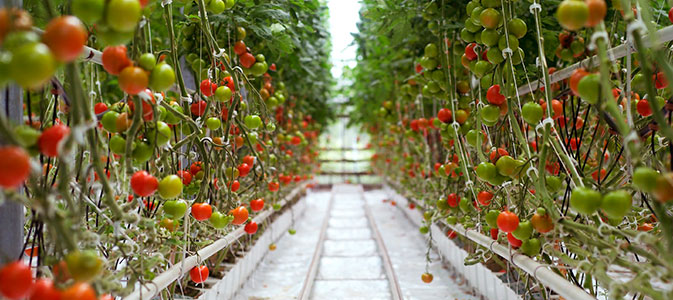
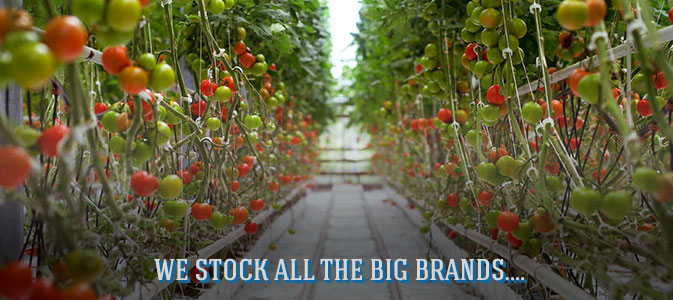
Meta and final slides

diff --git a/styles/screen.css b/styles/screen.css
@@ -460,50 +460,53 @@ img {
   padding-left: 4.05em;
   min-height: 3em; }
 /* line 361, ../sass/screen.scss */
-.contact .call {
+.contact .call, .contact .fax {
   background: transparent url(../images/icon-phone-blue.png) no-repeat 2% 5%; }
   /* line 363, ../sass/screen.scss */
-  .contact .call a {
+  .contact .call a, .contact .fax a {
     color: white;
     font-size: 120%; }
     /* line 366, ../sass/screen.scss */
-    .contact .call a:hover, .contact .call a:focus {
+    .contact .call a:hover, .contact .call a:focus, .contact .fax a:hover, .contact .fax a:focus {
       color: #cccccc; }
 /* line 371, ../sass/screen.scss */
+.contact .fax {
+  background: transparent url(../images/icon-fax.png) no-repeat 3.5% 5%; }
+/* line 374, ../sass/screen.scss */
 .contact .hours {
   background: transparent url(../images/icon-hours.png) no-repeat 2% 5%; }
-/* line 374, ../sass/screen.scss */
+/* line 377, ../sass/screen.scss */
 .contact .address {
   background: transparent url(../images/icon-pin.png) no-repeat 2% 5%; }
-/* line 377, ../sass/screen.scss */
+/* line 380, ../sass/screen.scss */
 .contact .email {
   background: transparent url(../images/icon-email-blue.png) no-repeat 0 0; }
-  /* line 379, ../sass/screen.scss */
+  /* line 382, ../sass/screen.scss */
   .contact .email a {
     color: white;
     font-size: 100%;
     font-weight: normal; }
-    /* line 383, ../sass/screen.scss */
+    /* line 386, ../sass/screen.scss */
     .contact .email a:hover, .contact .email a:focus {
       text-decoration: underline;
       color: #cccccc; }
 
-/* line 391, ../sass/screen.scss */
+/* line 394, ../sass/screen.scss */
 .heading h1 {
   font-size: 120%; }
 
-/* line 395, ../sass/screen.scss */
+/* line 398, ../sass/screen.scss */
 .product {
   min-height: 225px; }
-  /* line 397, ../sass/screen.scss */
+  /* line 400, ../sass/screen.scss */
   .product img {
     float: right;
     max-width: 100px;
     display: none; }
-  /* line 402, ../sass/screen.scss */
+  /* line 405, ../sass/screen.scss */
   .product dt {
     display: inline; }
-  /* line 405, ../sass/screen.scss */
+  /* line 408, ../sass/screen.scss */
   .product .price {
     background: white;
     color: black;
@@ -512,46 +515,46 @@ img {
     margin: 0.6em 0;
     line-height: 20px; }
 
-/* line 415, ../sass/screen.scss */
+/* line 418, ../sass/screen.scss */
 .about header {
   float: right;
   width: 40%;
   margin-left: 0.6em; }
-/* line 420, ../sass/screen.scss */
+/* line 423, ../sass/screen.scss */
 .about img {
   display: block;
   max-width: 60px;
   margin: 0 auto;
   border: 0; }
-/* line 426, ../sass/screen.scss */
+/* line 429, ../sass/screen.scss */
 .about h1 {
   padding-bottom: 1em;
   color: white;
   text-align: center;
   text-transform: none;
   font-size: 100%; }
-  /* line 432, ../sass/screen.scss */
+  /* line 435, ../sass/screen.scss */
   .about h1 em {
     color: white;
     font-size: 220%;
     font-weight: bold;
     margin-bottom: .2em;
     display: block; }
-/* line 440, ../sass/screen.scss */
+/* line 443, ../sass/screen.scss */
 .about em {
   display: inline;
   font-size: 100%;
   color: #a1e5df;
   font-weight: bold; }
 
-/* line 448, ../sass/screen.scss */
+/* line 451, ../sass/screen.scss */
 form {
   margin-top: 0.6em; }
-  /* line 450, ../sass/screen.scss */
+  /* line 453, ../sass/screen.scss */
   form label {
     display: block;
     margin-bottom: 0.6em; }
-  /* line 454, ../sass/screen.scss */
+  /* line 457, ../sass/screen.scss */
   form input, form textarea {
     width: 100%;
     margin-bottom: 1.5em;
@@ -562,7 +565,7 @@ form {
     opacity: 0.9;
     text-shadow: white 1px 1px 1px;
     border: 0; }
-    /* line 463, ../sass/screen.scss */
+    /* line 466, ../sass/screen.scss */
     form input:focus, form textarea:focus {
       filter: progid:DXImageTransform.Microsoft.Alpha(Opacity=100);
       opacity: 1;
@@ -570,7 +573,7 @@ form {
       -webkit-box-shadow: 0 0 1.5em rgba(0, 0, 0, 0.8);
       -moz-box-shadow: 0 0 1.5em rgba(0, 0, 0, 0.8);
       box-shadow: 0 0 1.5em rgba(0, 0, 0, 0.8); }
-  /* line 469, ../sass/screen.scss */
+  /* line 472, ../sass/screen.scss */
   form input[type="submit"] {
     background: #12679b;
     color: white;
@@ -580,7 +583,7 @@ form {
     opacity: 0.7;
     text-shadow: none;
     margin-bottom: 0; }
-    /* line 477, ../sass/screen.scss */
+    /* line 480, ../sass/screen.scss */
     form input[type="submit"]:hover, form input[type="submit"]:focus {
       filter: progid:DXImageTransform.Microsoft.Alpha(Opacity=100);
       opacity: 1;
@@ -588,13 +591,13 @@ form {
       -webkit-box-shadow: 0 0.3em 0 #0a3956;
       -moz-box-shadow: 0 0.3em 0 #0a3956;
       box-shadow: 0 0.3em 0 #0a3956; }
-    /* line 482, ../sass/screen.scss */
+    /* line 485, ../sass/screen.scss */
     form input[type="submit"]:active {
       -webkit-box-shadow: inset 0 0.3em 0 #0a3956;
       -moz-box-shadow: inset 0 0.3em 0 #0a3956;
       box-shadow: inset 0 0.3em 0 #0a3956; }
 
-/* line 487, ../sass/screen.scss */
+/* line 490, ../sass/screen.scss */
 .response {
   display: none;
   color: white;
@@ -614,32 +617,32 @@ form {
   width: 40%;
   left: 30%; }
 
-/* line 500, ../sass/screen.scss */
+/* line 503, ../sass/screen.scss */
 .success {
   display: block;
   background: #008d00 url(../images/icon-success.png) no-repeat 5% 50%; }
 
-/* line 504, ../sass/screen.scss */
+/* line 507, ../sass/screen.scss */
 .waiting {
   display: block;
   background: #12679b; }
 
-/* line 508, ../sass/screen.scss */
+/* line 511, ../sass/screen.scss */
 .error {
   display: block;
   background: #8d0000; }
 
-/* line 512, ../sass/screen.scss */
+/* line 515, ../sass/screen.scss */
 input.error, textarea.error {
   background: #c00000 url(../images/icon-error.png) no-repeat 97% 7px;
   color: white; }
 
-/* line 519, ../sass/screen.scss */
+/* line 522, ../sass/screen.scss */
 .no-rgba .utilities {
   background: transparent;
   filter: progid:DXImageTransform.Microsoft.gradient(startColorstr=#40000000,endColorstr=#40000000);
   zoom: 1; }
-/* line 525, ../sass/screen.scss */
+/* line 528, ../sass/screen.scss */
 .no-rgba .main .module {
   background: transparent;
   filter: progid:DXImageTransform.Microsoft.gradient(startColorstr=#70000000,endColorstr=#70000000);

diff --git a/sass/screen.scss b/sass/screen.scss
@@ -358,7 +358,7 @@ img {
 		padding-left: $padding*1.35;
 		min-height: $padding;
 	}
-	.call {
+	.call, .fax {
 		background: transparent url(../images/icon-phone-blue.png) no-repeat 2% 5%;
 		a {
 			color: $white;
@@ -367,6 +367,9 @@ img {
 				color: $offWhite;
 			}
 		}
+	}
+	.fax {
+		background: transparent url(../images/icon-fax.png) no-repeat 3.5% 5%;
 	}
 	.hours {
 		background: transparent url(../images/icon-hours.png) no-repeat 2% 5%;

diff --git a/includes/header.php b/includes/header.php
@@ -8,11 +8,21 @@
         <meta http-equiv="X-UA-Compatible" content="IE=edge,chrome=1">
         <title>Dr Van Der Bloom's Hydroponics Supplies | <?php echo($title); ?></title>
         <!-- *(* Need to add keywords from Google Adwords proposal -->
-        <meta name="keywords" content="">
+        <meta name="keywords" content="hydroponic lights, pumps garden, hydroponic lighting, coffs harbour, north coast, hydroponic tents, hydroponics supplies, lights hydroponics, hydroponic kit, water pumps garden, garden indoor, ph testers, garden water pumps, hydroponics growing, pumps water, water pumps, hydroponic gardening, grow hydroponic, hydroponics garden, gardening supplies, Nutrients, Additives, Growing Mediums, Lighting, Light Kits, Ballasts, Fans, Filters, Ducts, Meters, Scales, Timers, Air &amp; Water Pumps, Pots, Poly, Irrigation, Panda Film, Grow Tents, Hardware, Detox, Pest &amp; Disease Control, Propagation, Canna, House &amp; Garden, Dutch Master, Flairform, Growth Technology, B.A.C, OZI Magic">
         <meta name="description" content="Dr. Van Der Bloom's Hydroponics Supplies. ">
         <meta name="author" content="Light Is Everything :: http://lightiseverything.com.au">
         <!-- <meta name="viewport" content="width=device-width"> -->
+
         <!-- Place favicon.ico and apple-touch-icon.png in the root directory -->
+        <link rel="shortcut icon" href="favicon.ico">
+        <!-- For non-Retina iPhone, iPod Touch, and Android 2.1+ devices: -->
+        <link rel="apple-touch-icon-precomposed" href="apple-touch-icon.png">
+        <!-- For first- and second-generation iPad: -->
+        <link rel="apple-touch-icon-precomposed" sizes="72x72" href="apple-touch-icon-72x72.png">
+        <!-- For iPhone with high-resolution Retina display: -->
+        <link rel="apple-touch-icon-precomposed" sizes="114x114" href="apple-touch-icon-114x114.png">
+        <!-- For third-generation iPad with high-resolution Retina display: -->
+        <link rel="apple-touch-icon-precomposed" sizes="144x144" href="apple-touch-icon-144x144.png">
 
         <link rel="stylesheet" href="styles/screen.css"/>
         <link href="scripts/vendor/jquery.bxslider.css" rel="stylesheet" />

diff --git a/index.php b/index.php
@@ -2,10 +2,10 @@
 $title = 'Home';
 include("includes/header.php"); ?>
 <section class="main" role="main">
-    <div class="module slider" aria-hidden="true">
+    <div class="module slider">
         <ul class="bxslider">
             <li>
-                <img src="images/content/slider/slider-8.jpg" alt="" />
+                <img src="images/content/slider/slider-8.jpg" alt="Dr Van Der Blooms shopfront - Under new management" />
                 <!-- <article>
                     <img src="images/content/ALGEN_EXTRACT_5L_web_small.jpg" alt="" />
                     <h2>Some product name &ndash; <em>50% off</em></h2>
@@ -13,19 +13,19 @@ include("includes/header.php"); ?>
                 </article> -->
             </li>
             <li>
-                <img src="images/content/slider/slider-2.jpg" alt="" />
+                <img src="images/content/slider/slider-2.jpg" alt="We stock all the big brands..." />
             </li>
             <li>
-                <img src="images/content/slider/slider-3.png" alt="" />
+                <img src="images/content/slider/slider-3.png" alt="Canna - The solution for growth and bloom" />
             </li>
             <li>
-                <img src="images/content/slider/slider-4.png" alt="" />
+                <img src="images/content/slider/slider-5.png" alt="Dutch Master - The future of hydroponic nutrients" />
             </li>
             <li>
-                <img src="images/content/slider/slider-5.png" alt="" />
+                <img src="images/content/slider/slider-4.png" alt="House &amp; Garden" />
             </li>
             <li>
-                <img src="images/content/slider/slider-6.png" alt="" />
+                <img src="images/content/slider/slider-6.png" alt="Flairform - Leaders in Hydroponics" />
             </li>
         </ul>
     </div>

diff --git a/includes/products-category.php b/includes/products-category.php
@@ -10,4 +10,4 @@
 <li><a <?php if (strpos($title,'Hardware / Detox') !== false) echo('class="current"'); ?> href="products.php?cat=hardware">Hardware / Detox</a></li>
 <li><a <?php if (strpos($title,'Pest &amp; Disease Control') !== false) echo('class="current"'); ?> href="products.php?cat=control">Pest &amp; Disease Control</a></li>
 <li><a <?php if (strpos($title,'Propagation') !== false) echo('class="current"'); ?> href="products.php?cat=propagation">Propagation</a></li>
-<li><a <?php if (strpos($title,'Hydroponic Kits') !== false) echo('class="current"'); ?> href="products.php?cat=hydrokits">Hydroponic Kits</a></li>
+<!-- <li><a <?php if (strpos($title,'Hydroponic Kits') !== false) echo('class="current"'); ?> href="products.php?cat=hydrokits">Hydroponic Kits</a></li> -->

diff --git a/includes/footer.php b/includes/footer.php
@@ -3,9 +3,8 @@
         <script src="scripts/vendor/jquery.bxslider.min.js"></script>
         <script src="scripts/main-ck.js"></script>
 
-        <!-- *(* Google Analytics: change UA-XXXXX-X to be your site's ID. -->
         <script>
-            var _gaq=[['_setAccount','UA-XXXXX-X'],['_trackPageview']];
+            var _gaq=[['_setAccount','UA-4982591-14'],['_trackPageview']];
             (function(d,t){var g=d.createElement(t),s=d.getElementsByTagName(t)[0];
             g.src=('https:'==location.protocol?'//ssl':'//www')+'.google-analytics.com/ga.js';
             s.parentNode.insertBefore(g,s)}(document,'script'));

diff --git a/contact.php b/contact.php
@@ -33,7 +33,7 @@ include("includes/header.php"); ?>
           <dt>Call us</dt>
           <dd class="call"><a href="tel:0266519992">02 6651 9992</a></dd>
           <dt>Fax</dt>
-          <dd class="call">02 6651 2577</dd>
+          <dd class="fax">Fax - 02 6651 2577</dd>
           <dt>Send an email</dt>
           <dd class="email"><a href="enquiry@drvanderblooms.com.au">enquiry@drvanderblooms.com.au</a></dd>
           <dt>Visit us</dt>

diff --git a/includes/contact.php b/includes/contact.php
@@ -2,8 +2,8 @@
 
 function contactUs(){
 
-    // $to      = 'enquiry@drvanderblooms.com.au';
-    $to      = 'kym@lie.lv';
+    $to      = 'enquiry@drvanderblooms.com.au';
+    // $to      = 'kym@lie.lv';
     $subject = 'Urgent : Website enquiry';
     $stringData = "Name: " . $_GET['name'] . "\r\n";
     $stringData = $stringData . "Email: " . $_GET['email'] . "\r\n";

diff --git a/products.php b/products.php
@@ -56,7 +56,7 @@ switch ($var) {
     case "dutchmaster":
         $title .= ' - Dutch Master';
         break;
-    case "falirform":
+    case "flairform":
         $title .= ' - Flairform';
         break;
     case "growthtech":
